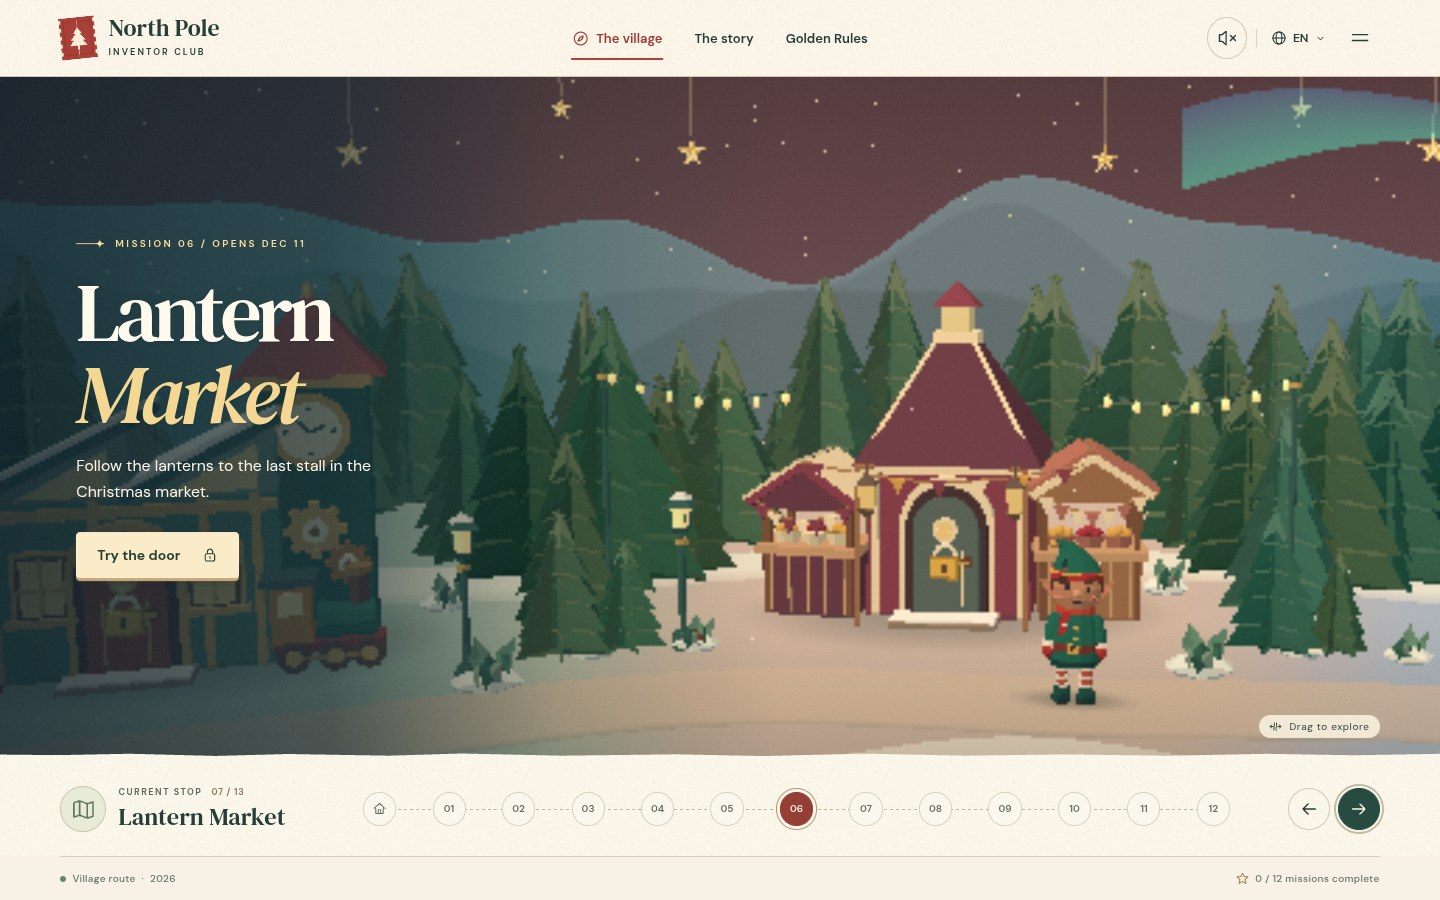
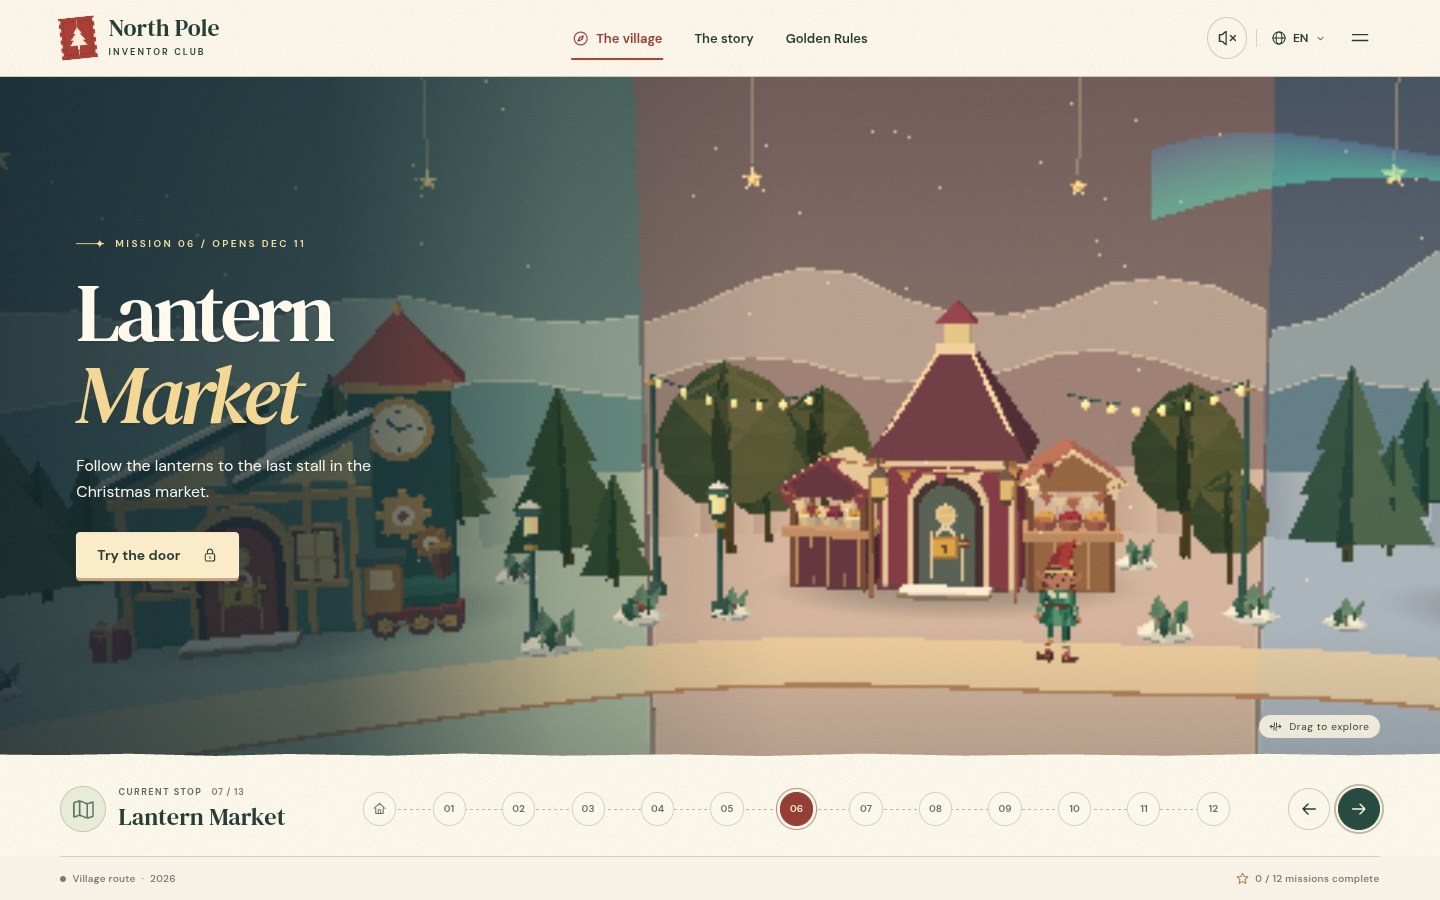
Verify the refined village, owner isolation and comparative frame timings

diff --git a/scripts/test-village.py b/scripts/test-village.py
@@ -73,6 +73,20 @@ def timing(p):
 def visible(page, selector):
     expect(page.locator(selector)).to_be_visible(timeout=15000)
 
+def onboard(p, variant):
+    visible(p,'#welcome-setup-dialog')
+    p.locator(f'label:has([name="setup-elf"][value="{variant}"])').click()
+    p.locator('#setup-name').fill('Robin')
+    p.locator('#setup-begin').click();visible(p,'#intro-dialog')
+    p.locator('#start-button').click();visible(p,'#rules-dialog')
+    p.locator('#rules-next').click()
+    assert p.evaluate('VillageCalendar.elf()') == variant
+
+def five_taps(p, selector):
+    # Synthetic clicks avoid mistaking animation or test-driver latency for user timing.
+    p.locator(selector).evaluate('(corner) => { for(let i=0;i<5;i++)corner.click() }')
+    expect(p.locator('body')).to_have_attribute('data-mode','test')
+
 def run(browser):
     errors=[]
     p=setup(browser,1440,900)
@@ -80,6 +94,16 @@ def run(browser):
     print('Opening built site',flush=True);p.goto(ORIGIN)
     print('Checking canvas',flush=True);visible(p,'#v-canvas');stop(p,0)
     expect(p.locator('.v-speaker')).to_have_attribute('aria-pressed','false')
+    visible(p,'#welcome-setup-dialog');shot(p,'invitation-desktop')
+    p.locator('label:has([name="setup-language"][value="da"])').click()
+    expect(p.locator('#elf-legend')).to_have_text('Vælg din papirnisse')
+    p.locator('label:has([name="setup-language"][value="en"])').click()
+    onboard(p,'male');choose(p,0);p.reload();stop(p,0)
+    expect(p.locator('#welcome-setup-dialog')).to_be_hidden()
+    assert p.evaluate('VillageCalendar.elf()')=='male'
+    p.locator('.v-menu').click();p.locator('[name="menu-elf"][value="female"]').check()
+    p.locator('#v-menu [data-do="close"]').click()
+    assert p.evaluate('VillageCalendar.elf()')=='female'
     print('Capturing welcome square',flush=True);p.wait_for_timeout(650)
     shot(p,'welcome-desktop')
     print('Desktop frame timing',json.dumps(timing(p)),flush=True)
@@ -100,13 +124,8 @@ def run(browser):
     touch_door();visible(p,'#toast')
     assert 'December 1, 2026' in p.locator('#toast').inner_text()
     p.locator('#v-enter').click();expect(p.locator('#mission-dialog')).to_be_hidden()
-    choose(p,0);p.locator('#v-enter').click();visible(p,'#welcome-setup-dialog')
-    p.locator('#setup-name').fill('Robin');p.locator('#setup-begin').click();visible(p,'#intro-dialog')
-    p.locator('#start-button').click();visible(p,'#rules-dialog');p.locator('#rules-next').click();stop(p,1)
-    print('Circle, locked doors and first-visit setup passed',flush=True)
-    # Existing owner gesture opens and isolates the real unlocked application.
-    for _ in range(7):p.locator('.v-foot>span').first.dispatch_event('click')
-    expect(p.locator('body')).to_have_attribute('data-mode','test');visible(p,'#v-canvas')
+    choose(p,0);five_taps(p,'#square-corner');visible(p,'#v-canvas')
+    assert p.evaluate('Array.from({length:12},(_,i)=>VillageCalendar.status(i+1).ready).every(Boolean)')
     # Observe the actual central camera through the renderer in this test page.
     p.evaluate('''async () => {
       const T=await import('./village/vendor/three.module.min.js');
@@ -114,12 +133,27 @@ def run(browser):
       window.cameraTrace={radius:0,maximum:0};
       T.PerspectiveCamera.prototype.updateMatrixWorld=function(...args) {
         const r=Math.hypot(this.position.x,this.position.z);
-        Object.assign(cameraTrace,{radius:r,maximum:Math.max(r,cameraTrace.maximum)});
+        Object.assign(cameraTrace,{radius:r,fov:this.fov,maximum:Math.max(r,cameraTrace.maximum)});
         return original.apply(this,args);
       };
     }''')
     choose(p,2);p.wait_for_timeout(850)
     assert p.evaluate('cameraTrace.maximum') < .001
+    # Allow lazy construction and the camera easing to finish before sampling.
+    def settle_camera(fov):
+        for _ in range(60):
+            if abs(p.evaluate('cameraTrace.fov')-fov)<.04:return
+            p.wait_for_timeout(100)
+        raise AssertionError(('Camera did not settle',p.evaluate('cameraTrace'),fov))
+    base=p.evaluate("Math.max(30,2*Math.atan(13.5/(29*(document.querySelector('#v-canvas').clientWidth/document.querySelector('#v-canvas').clientHeight)))*180/Math.PI)")
+    settle_camera(base)
+    front=p.evaluate('cameraTrace.fov');p.mouse.move(bounds['x']+bounds['width']*.78,bounds['y']+bounds['height']*.61)
+    p.locator('#v-canvas').dispatch_event('wheel', {'deltaX':225,'deltaMode':0})
+    p.wait_for_timeout(1800)
+    assert p.evaluate('cameraTrace.fov') > front+7.5, (front,p.evaluate('cameraTrace'),p.locator('dialog[open]').count())
+    p.wait_for_timeout(800);shot(p,'between-sectors')
+    assert p.evaluate('cameraTrace.maximum') < .001
+    choose(p,2);settle_camera(base);p.wait_for_timeout(500)
     touch_door();visible(p,'#mission-dialog')
     assert p.evaluate('cameraTrace.maximum') > 12
     assert p.locator('#assignment li').count()>=5
@@ -162,6 +196,9 @@ def run(browser):
     p.locator('[data-close="mission-dialog"]').first.click()
     p.locator('.v-menu').click();p.locator('[data-do="exit-test"]').click()
     expect(p.locator('body')).to_have_attribute('data-mode','production');visible(p,'#v-canvas')
+    assert p.evaluate('VillageCalendar.progress()')==0
+    assert p.evaluate('SantaStorage.get(2).then(record=>!record)')
+    assert p.evaluate('Array.from({length:12},(_,i)=>!VillageCalendar.status(i+1).ready).every(Boolean)')
     for code,expected in [('da','Velkomstpladsen'),('sv','Välkomsttorget'),('en','Welcome Square')]:
         p.locator('.v-lang').click();p.locator('[data-code="'+code+'"]').click()
         expect(p.locator('#v-place-name')).to_have_text(expected,timeout=15000)
@@ -179,7 +216,8 @@ def run(browser):
     print('Persistence, languages, original date mode and offline reload passed',flush=True)
 
     p=setup(browser,390,844,is_mobile=True,has_touch=True)
-    p.goto(ORIGIN);stop(p,0);p.wait_for_timeout(650);shot(p,'welcome-mobile')
+    p.goto(ORIGIN);visible(p,'#welcome-setup-dialog');shot(p,'invitation-mobile')
+    five_taps(p,'#invitation-corner');onboard(p,'female');choose(p,0);p.wait_for_timeout(650);shot(p,'welcome-mobile')
     print('Mobile viewport frame timing',json.dumps(timing(p)),flush=True)
     assert p.evaluate('document.documentElement.scrollWidth <= innerWidth')
     cdp=p.context.new_cdp_session(p)
@@ -189,9 +227,9 @@ def run(browser):
     expect(p.locator('#paper-village')).not_to_have_attribute('data-stop','0',timeout=15000)
     expect(p.locator('dialog[open]')).to_have_count(0);p.close()
     p=setup(browser,date='2026-12-01',reduced_motion='reduce')
-    p.goto(ORIGIN);choose(p,1);expect(p.locator('#v-enter')).to_have_text('Open the door')
+    p.goto(ORIGIN);onboard(p,'male');choose(p,1);expect(p.locator('#v-enter')).to_have_text('Open the door')
     choose(p,2);expect(p.locator('#v-enter')).to_have_text('Try the door')
-    p.locator('.v-menu').click();p.locator('[data-do="classic"]').click();visible(p,'#welcome-setup-dialog')
+    p.locator('.v-menu').click();p.locator('[data-do="classic"]').click();visible(p,'#calendar')
     assert p.locator('#calendar button').count()==12;p.close()
     p=setup(browser)
     p.add_init_script("""const get=HTMLCanvasElement.prototype.getContext;
@@ -199,9 +237,40 @@ def run(browser):
     p.goto(ORIGIN);visible(p,'#welcome-setup-dialog');visible(p,'#calendar')
     p.close()
 
+def verify_owner_workbench(browser):
+    page=setup(browser,reduced_motion='reduce')
+    page.goto(ORIGIN)
+    visible(page,'#welcome-setup-dialog')
+    five_taps(page,'#invitation-corner')
+    onboard(page,'male')
+    for n in range(1,13):
+        choose(page,n)
+        page.locator('#v-enter').click()
+        visible(page,'#mission-dialog')
+        expect(page.locator('#mission-title')).not_to_be_empty()
+        if n==12:
+            page.locator('#complete-button').click()
+            with page.expect_file_chooser() as chooser:
+                page.locator('#upload-creation').click()
+            chooser.value.set_files({'name':'owner.html','mimeType':'text/html','buffer':b'<html><body>Owner test</body></html>'})
+            expect(page.locator('#creation-filename')).to_have_text('owner.html')
+        page.locator('[data-close="mission-dialog"]').first.click()
+        page.wait_for_timeout(150)
+    choose(page,0);shot(page,'male-paper-elf')
+    page.locator('.v-menu').click();page.locator('[data-do="exit-test"]').click()
+    visible(page,'#welcome-setup-dialog')
+    assert page.evaluate('VillageCalendar.progress()')==0
+    assert page.evaluate('SantaStorage.get(12).then(record=>!record)')
+    five_taps(page,'#invitation-corner')
+    visible(page,'#v-canvas');expect(page.locator('#welcome-setup-dialog')).to_be_hidden()
+    assert page.evaluate('VillageCalendar.progress()')==1
+    assert page.evaluate('SantaStorage.get(12).then(record=>record.filename)')=='owner.html'
+    page.close()
+
 def benchmark(browser):
     for width,height in [(1440,900),(390,844)]:
         page=setup(browser,width,height,is_mobile=width<700,has_touch=width<700)
+        page.add_init_script("if(self===top)localStorage.setItem('paper-village-missions-2026-olivia',JSON.stringify({name:'Robin',onboarded:true,setupComplete:true}))")
         page.goto(ORIGIN);stop(page,0);page.wait_for_timeout(900)
         result=page.evaluate("""() => new Promise(resolve => {
           const delta=[];const next=document.querySelector('[data-do="next"]');
@@ -230,6 +299,8 @@ with http_fixture() as ORIGIN, sync_playwright() as playwright:
     print('Chromium',browser.version,flush=True)
     try:
         if args.motion_benchmark:benchmark(browser)
-        else:run(browser)
+        else:
+            run(browser)
+            verify_owner_workbench(browser)
     finally:browser.close()
     if not args.motion_benchmark:print('PASS: circle, inputs, locks, onboarding, owner mode, languages, audio, mission lifecycle, local files, sandbox, reduced motion and fallback')

diff --git a/docs/village-review/README.md b/docs/village-review/README.md
@@ -1,6 +1,8 @@
 # Santa’s Secret Missions • Village preview
 
-The experimental calendar opens in Welcome Square. Select **Explore the village** for the original name, language, letter and Golden Rules sequence. Click Santa to revisit his rules, the post office to read the story, or a number on the route to visit that house. The doors keep the original December 2026 schedule. [Open the independent preview](https://santas-paper-village-preview.tonie81.chatgpt.site)
+New visitors receive a paper invitation to choose English, Danish or Swedish, enter a name and select a female or male paper elf. The original letter and Golden Rules follow. Returning visitors arrive in the village with their saved puppet. Both designs are available in the village menu. [Open the independent preview](https://santas-paper-village-preview.tonie81.chatgpt.site)
+
+![First-visit invitation showing both paper elves](invitation-mobile.jpg)
 
 ![Rendered desktop view of the post office and Welcome Square](welcome-desktop.jpg)
 
@@ -13,6 +15,23 @@ The experimental calendar opens in Welcome Square. Select **Explore the village*
 - Use **Village menu → Classic calendar** for the original layout. It also opens automatically when WebGL is unavailable. Sustained slow frames expose a direct classic-calendar link in the route footer.
 
 The preview uses a separate origin, IndexedDB database names, localStorage keys and a scope-specific cache prefix. It stores names, stars, language and creation files on the visitor’s device. Owner mode uses its own progress and creation records. [Classic preview](https://santas-paper-village-preview.tonie81.chatgpt.site/?view=classic)
+
+## Owner testing before December
+
+Tap five times within three seconds in the **bottom-right 36 × 36 pixels** of the welcome invitation. On short screens, scroll to the bottom of the invitation first. After onboarding, the same gesture works in the bottom-right corner of the **Welcome Square scenery**, immediately above the route controls. The page reloads into owner test mode, which opens all twelve doors. On a fresh device, complete the invitation in test mode.
+
+To exit, open **Village menu → Owner test · Return to real calendar**. If the welcome invitation is open, use its **Owner test · Return to real calendar** control. Normal dates and saved progress return after reload. The owner flag, normal and test progress, and normal and test creation databases stay local to the device.
+
+## Before and after
+
+| View | Previous build | Refined build |
+| --- | --- | --- |
+| Welcome Square | [Desktop](before/welcome-desktop.jpg) · [Mobile](before/welcome-mobile.jpg) | [Desktop](welcome-desktop.jpg) · [Mobile](welcome-mobile.jpg) |
+| Gingerbread Cottage | [Earlier framing](before/stop-01.jpg) | [At the door](stop-01.jpg) |
+| Between neighbouring stops | | [Wide view on desktop](between-sectors.jpg) · [Mobile paper seam](mobile-seam.jpg) |
+| Puppet selection | | [Both designs in the invitation](invitation-desktop.jpg) · [Male elf in the village](male-paper-elf.jpg) |
+
+The inspiration recording shows adjacent pieces of coloured ground and contrasting vertical backdrops in the same frame. The revised village uses thirteen individually coloured wedges, layered kraft edges, folded silhouettes and a continuous walking ribbon. The animated elf is built from hinged sheets with printed facial details. The dedicated ground shadow was removed. Approaching a sector center narrows the field of view. Halfway to the next center, the lens widens by 13 degrees on mobile and 8 degrees on desktop. Reduced-motion mode keeps the exploration lens steady.
 
 ## Run locally
 
@@ -45,6 +64,7 @@ The automated suite runs Chromium on the built `dist/` folder through a temporar
 | Area | Verified behavior |
 | --- | --- |
 | Build and original content | 12 missions, 36 hints, seven rules, icons, manifest, assets and exclusion of development fixtures |
+| First visit and owner testing | Automatic invitation, both puppet choices, persistence, five-tap entry from both corners, all twelve mission panels, separate progress and uploaded files, and return to normal dates |
 | Date boundaries | All 12 local-midnight changes in UTC and Europe/Copenhagen, plus a December 1 browser visit |
 | Circular exploration | All 13 stops, wraparound, reverse navigation, keyboard, wheel, mouse drag and touch swipe |
 | Camera and doors | The camera stays at the center during ordinary navigation, moves for door entry, and returns after closing the panel. Physical clicks on sealed and open doors exercise both states. |
@@ -70,15 +90,17 @@ To select an installed Chromium binary, add `--chromium /path/to/chromium`.
 
 Chromium 156.0.8078.79 ran with SwiftShader software rendering. The navigation benchmark advanced through 26 stops, covering two full circuits. FPS is the number of frame callbacks divided by elapsed time, including transitions and first visits to lazy-built houses.
 
-| Viewport | Elapsed | Average FPS | 95th-percentile frame interval |
-| --- | ---: | ---: | ---: |
-| 1440 × 900 desktop | 14.83 s | 8.0 | 267 ms |
-| 390 × 844 mobile emulation | 14.10 s | 21.3 | 100 ms |
+The previous release and the refinement were measured in the same workspace with the same Chromium binary, viewport sizes, software renderer, navigation sequence and device scale. Both runs began in an open village.
 
-Both software-rendered runs fell below the 30 FPS target. The renderer batches static folds, instances trees, builds nearby houses on demand, reduces the moving drawing buffer on software GPUs, caches shadow maps and offers the classic view on slow devices. Hardware-accelerated desktop performance, physical iPhone Safari and Android performance, and native home-screen installation still need device testing. The offline check covered a browser reload using the installed service worker.
+| Viewport | Before, FPS | After, FPS | Before, 95th-percentile frame interval | After, 95th-percentile frame interval |
+| --- | ---: | ---: | ---: | ---: |
+| Desktop, 1440 × 900 | 8.3 | 14.2 | 250 ms | 167 ms |
+| Mobile emulation, 390 × 844 | 25.3 | 35.0 | 83 ms | 67 ms |
+
+The desktop run improved and still fell short of 30 FPS. The emulated mobile run exceeded 30 FPS on average and still had slower individual frames. The owner supplied an iPhone recording of the previous version. This refinement was tested with software-rendered Chromium. Hardware-accelerated desktop, physical iPhone Safari, Android and native home-screen installation remain unverified for this revision.
 
 ## Source guide
 
-`village/world.js` coordinates the central camera, companion, door transitions, hit testing and quality changes. `landscape.js`, `weather.js` and `street.js` build the connected scenery. The post office, house designs and articulated characters live in `welcome.js`, `houses.js` and `characters.js`. The scene reads date, progress and mission actions through the calendar interface in `app.js`. The original sandbox implementation is in `preview.js`.
+`village/world.js` coordinates the central camera, companion, door transitions, hit testing and quality changes. `landscape.js`, `weather.js` and `street.js` build the connected scenery. The post office, house designs, Santa and the selectable paper elves live in `welcome.js`, `houses.js`, `characters.js` and `puppet.js`. The scene reads date, progress and mission actions through the calendar interface in `app.js`. The original sandbox implementation is in `preview.js`.
 
 The paper geometry and music were made for the village. Three.js ships under its MIT license. The bundled DM Sans and DM Serif Text fonts include their SIL Open Font Licenses under `village/fonts/`.
